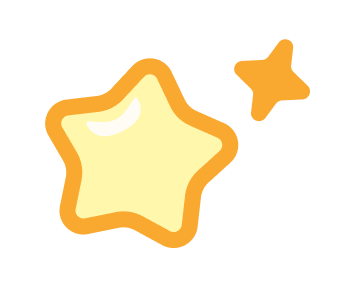
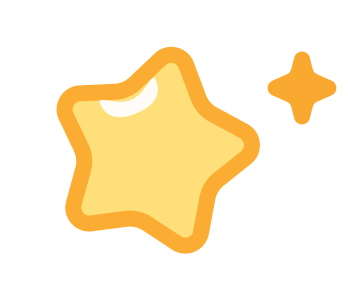
🎨 :: 별 아이콘 이미지 통일

Changed region(s): [[0.1156, 0.1233, 0.9827, 0.863], [0.3757, 0.2158, 0.4046, 0.2466]]

diff --git a/src/component/myPage/myPageView.js b/src/component/myPage/myPageView.js
@@ -1,6 +1,6 @@
 import "../Css/myPageView.css";
 import profile from "../../images/default_profile.png";
-import starIcon from "../../images/star2_icon.png";
+import starIcon from "../../images/star_icon.png";
 import { FontAwesomeIcon } from "@fortawesome/react-fontawesome";
 import { faPenToSquare } from "@fortawesome/free-regular-svg-icons";
 
